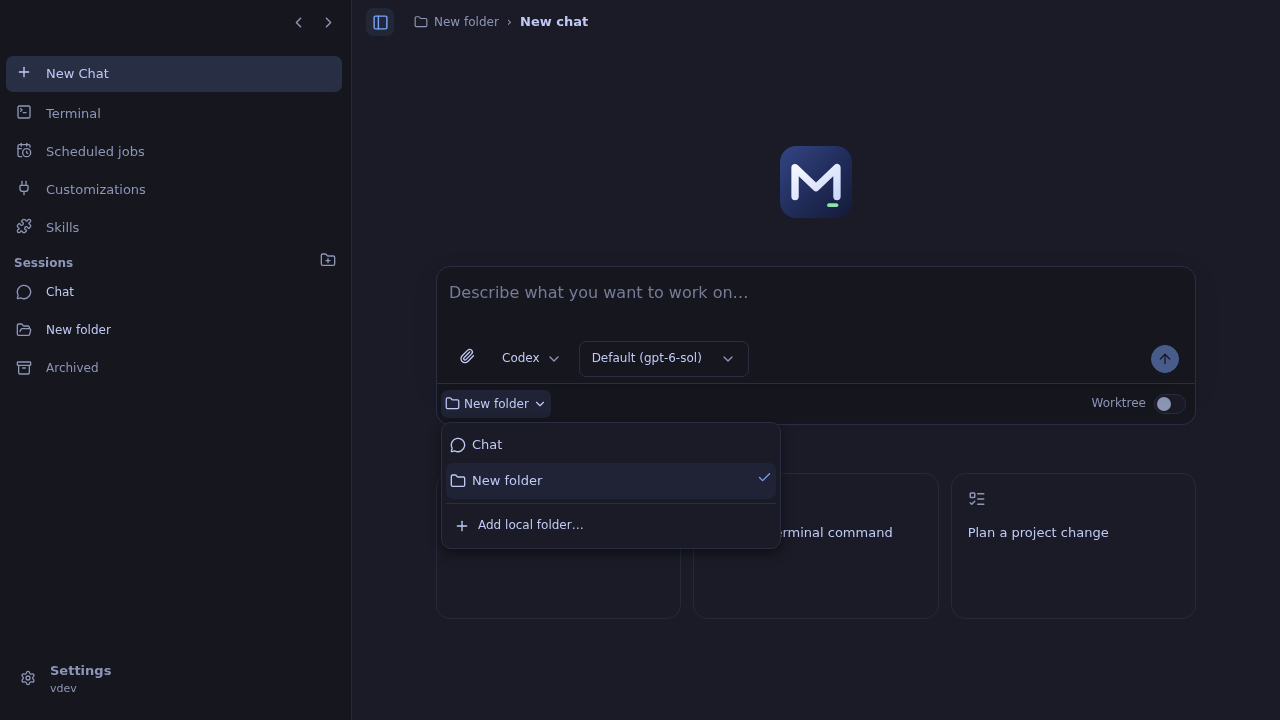
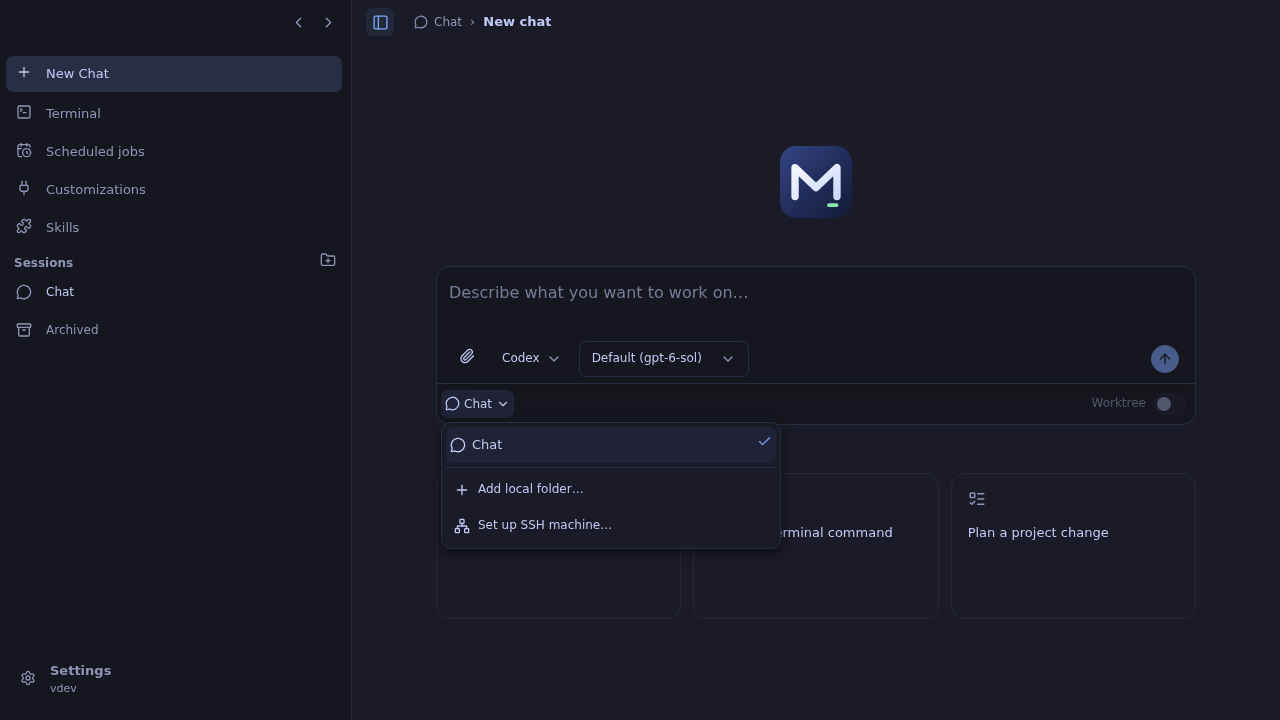
Keep SSH setup available and ignore stale folder listings

diff --git a/web/src/components/mux-new-chat.ts b/web/src/components/mux-new-chat.ts
@@ -82,6 +82,7 @@ export class MuxNewChat extends LitElement {
   @state() private folderDialogPath = '';
   @state() private folderDialogLoading = false;
   @state() private folderDialogError = '';
+  private folderBrowseVersion = 0;
   @state() private showHiddenFolders = false;
   @state() private newFolderOpen = false;
   @state() private newFolderName = '';
@@ -352,17 +353,18 @@ export class MuxNewChat extends LitElement {
     void this.loadCatalog();
   }
   private async browseFolder(path: string) {
+    const version = ++this.folderBrowseVersion;
     this.folderDialogLoading = true;
     this.folderDialogError = '';
     try {
       const listing = await sdkChats.folders(path, this.remoteHost);
-      if (!this.folderDialogOpen) return;
+      if (!this.folderDialogOpen || version !== this.folderBrowseVersion) return;
       this.folderDialogListing = listing;
       this.folderDialogPath = listing.path;
     } catch (error) {
-      this.folderDialogError = error instanceof Error ? error.message : String(error);
+      if (this.folderDialogOpen && version === this.folderBrowseVersion) this.folderDialogError = error instanceof Error ? error.message : String(error);
     } finally {
-      this.folderDialogLoading = false;
+      if (version === this.folderBrowseVersion) this.folderDialogLoading = false;
     }
   }
   private async confirmFolder() {
@@ -745,6 +747,7 @@ export class MuxNewChat extends LitElement {
             <div class="project-divider"></div>
             <mux-ui-menu-item @click=${() => void this.addLocalFolder()}>${icon(Plus,{size:16})}<span class="option-copy">${this.remoteHost ? 'Add folder on this machine…' : 'Add local folder…'}</span></mux-ui-menu-item>
             ${sdkChats.remoteHosts.length ? html`<mux-ui-menu-item @click=${() => { this.nodePickerOpen = true; }}>${icon(Network,{size:16})}<span class="option-copy">Choose machine…</span></mux-ui-menu-item>` : nothing}
+            ${!sdkChats.remoteHosts.length ? html`<mux-ui-menu-item @click=${this.openRemoteSettings}>${icon(Network,{size:16})}<span class="option-copy">Set up SSH machine…</span></mux-ui-menu-item>` : nothing}
           `}
         </div>` : nothing}</div>
         <div class="spacer"></div>
